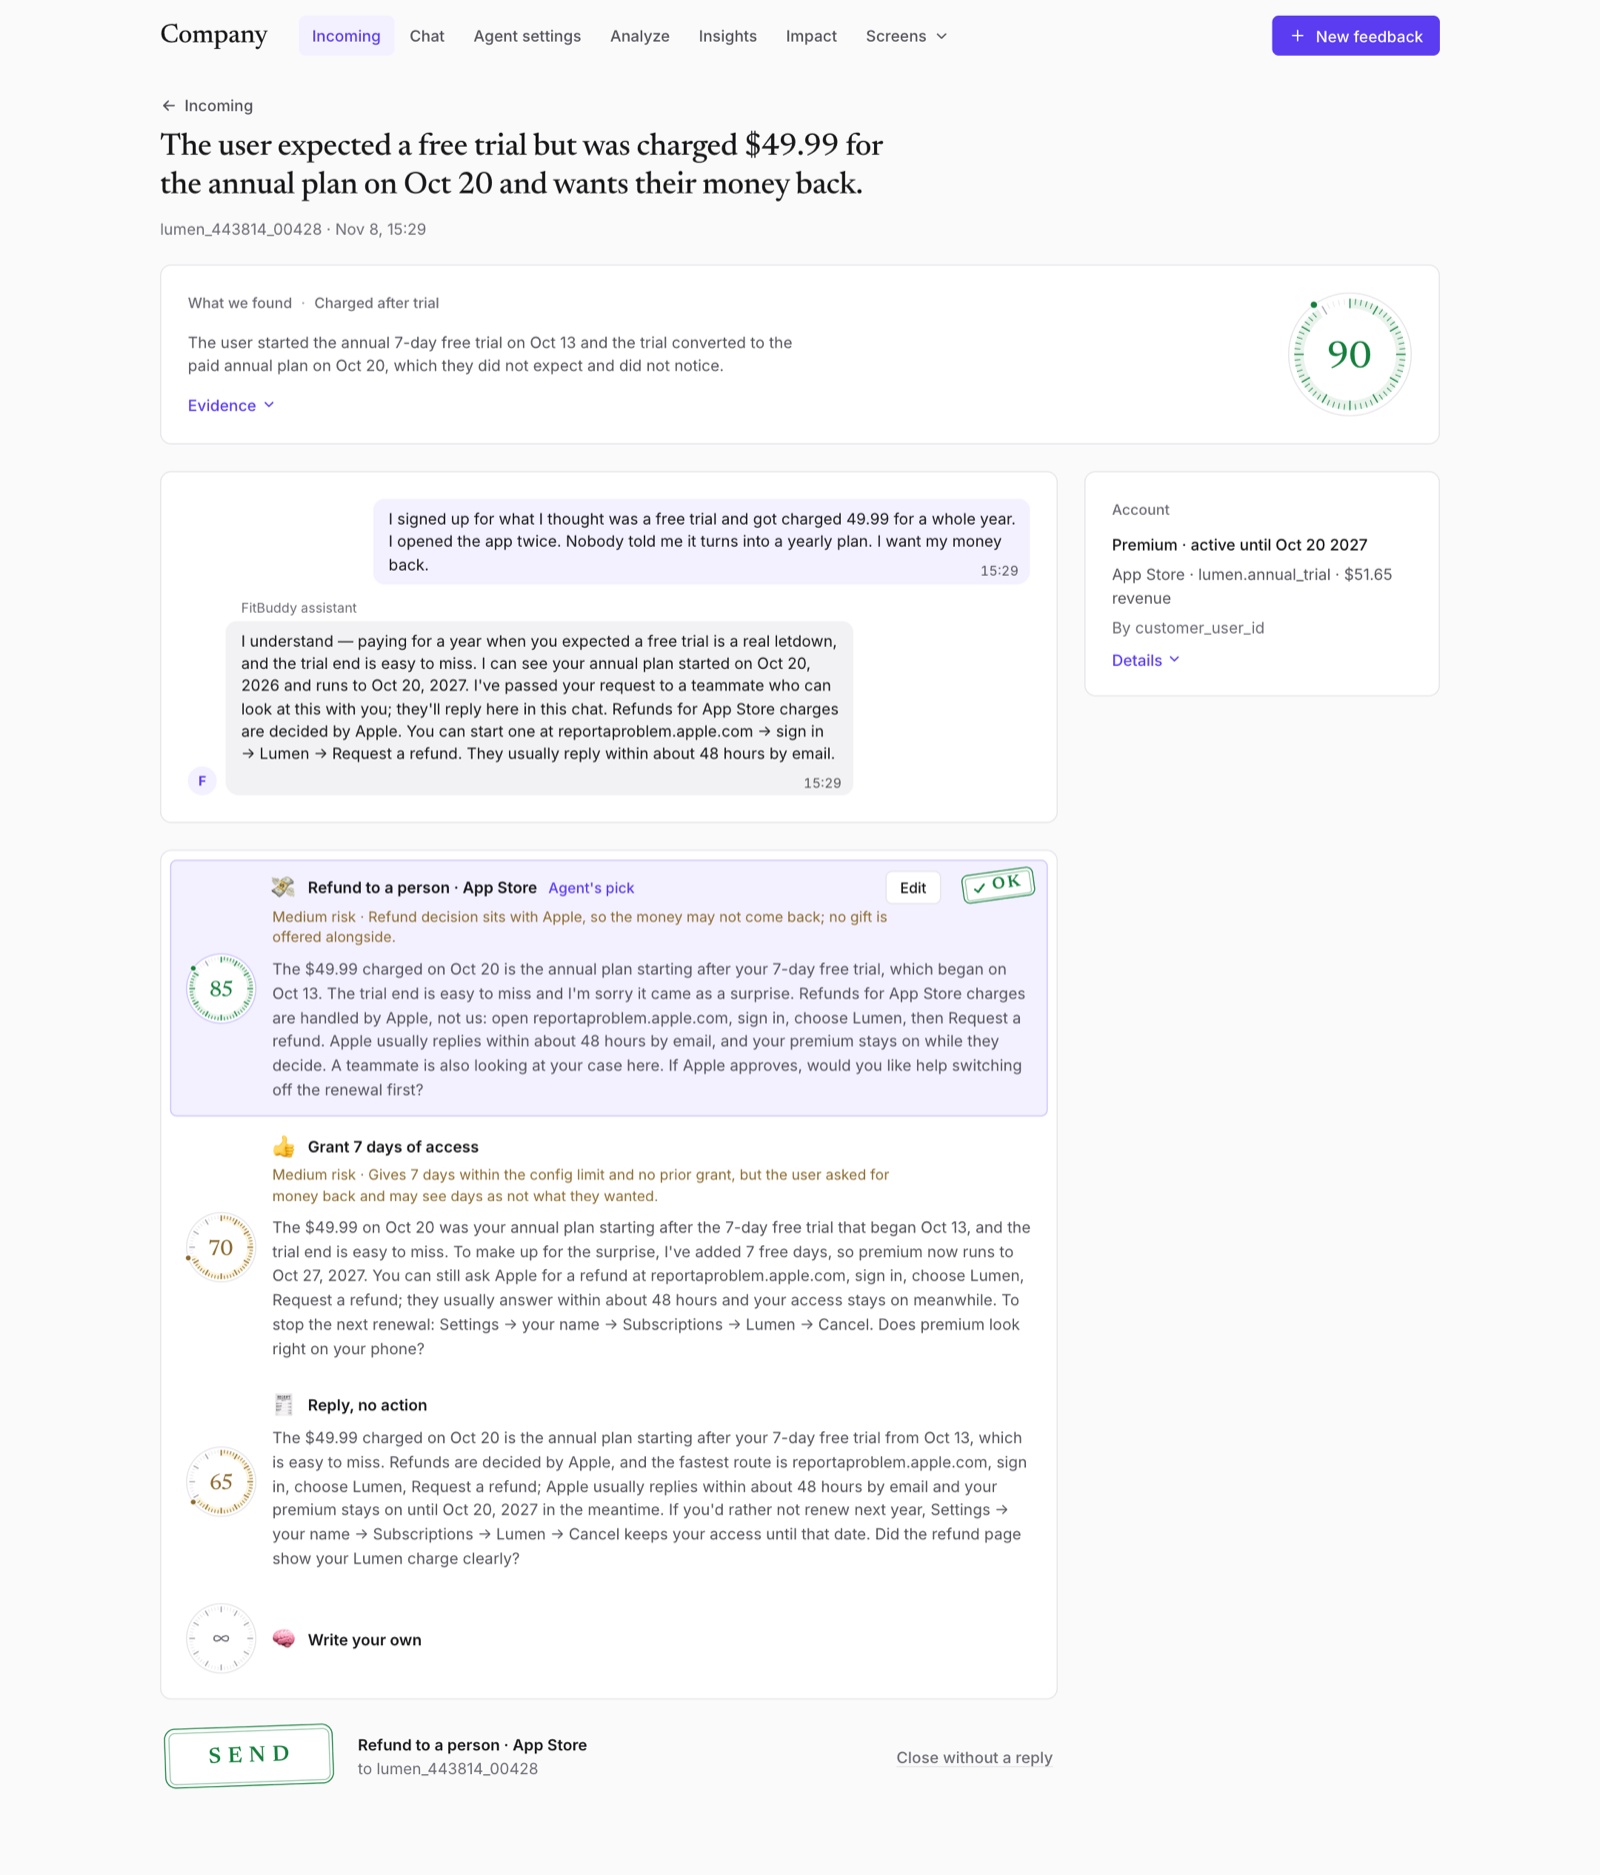
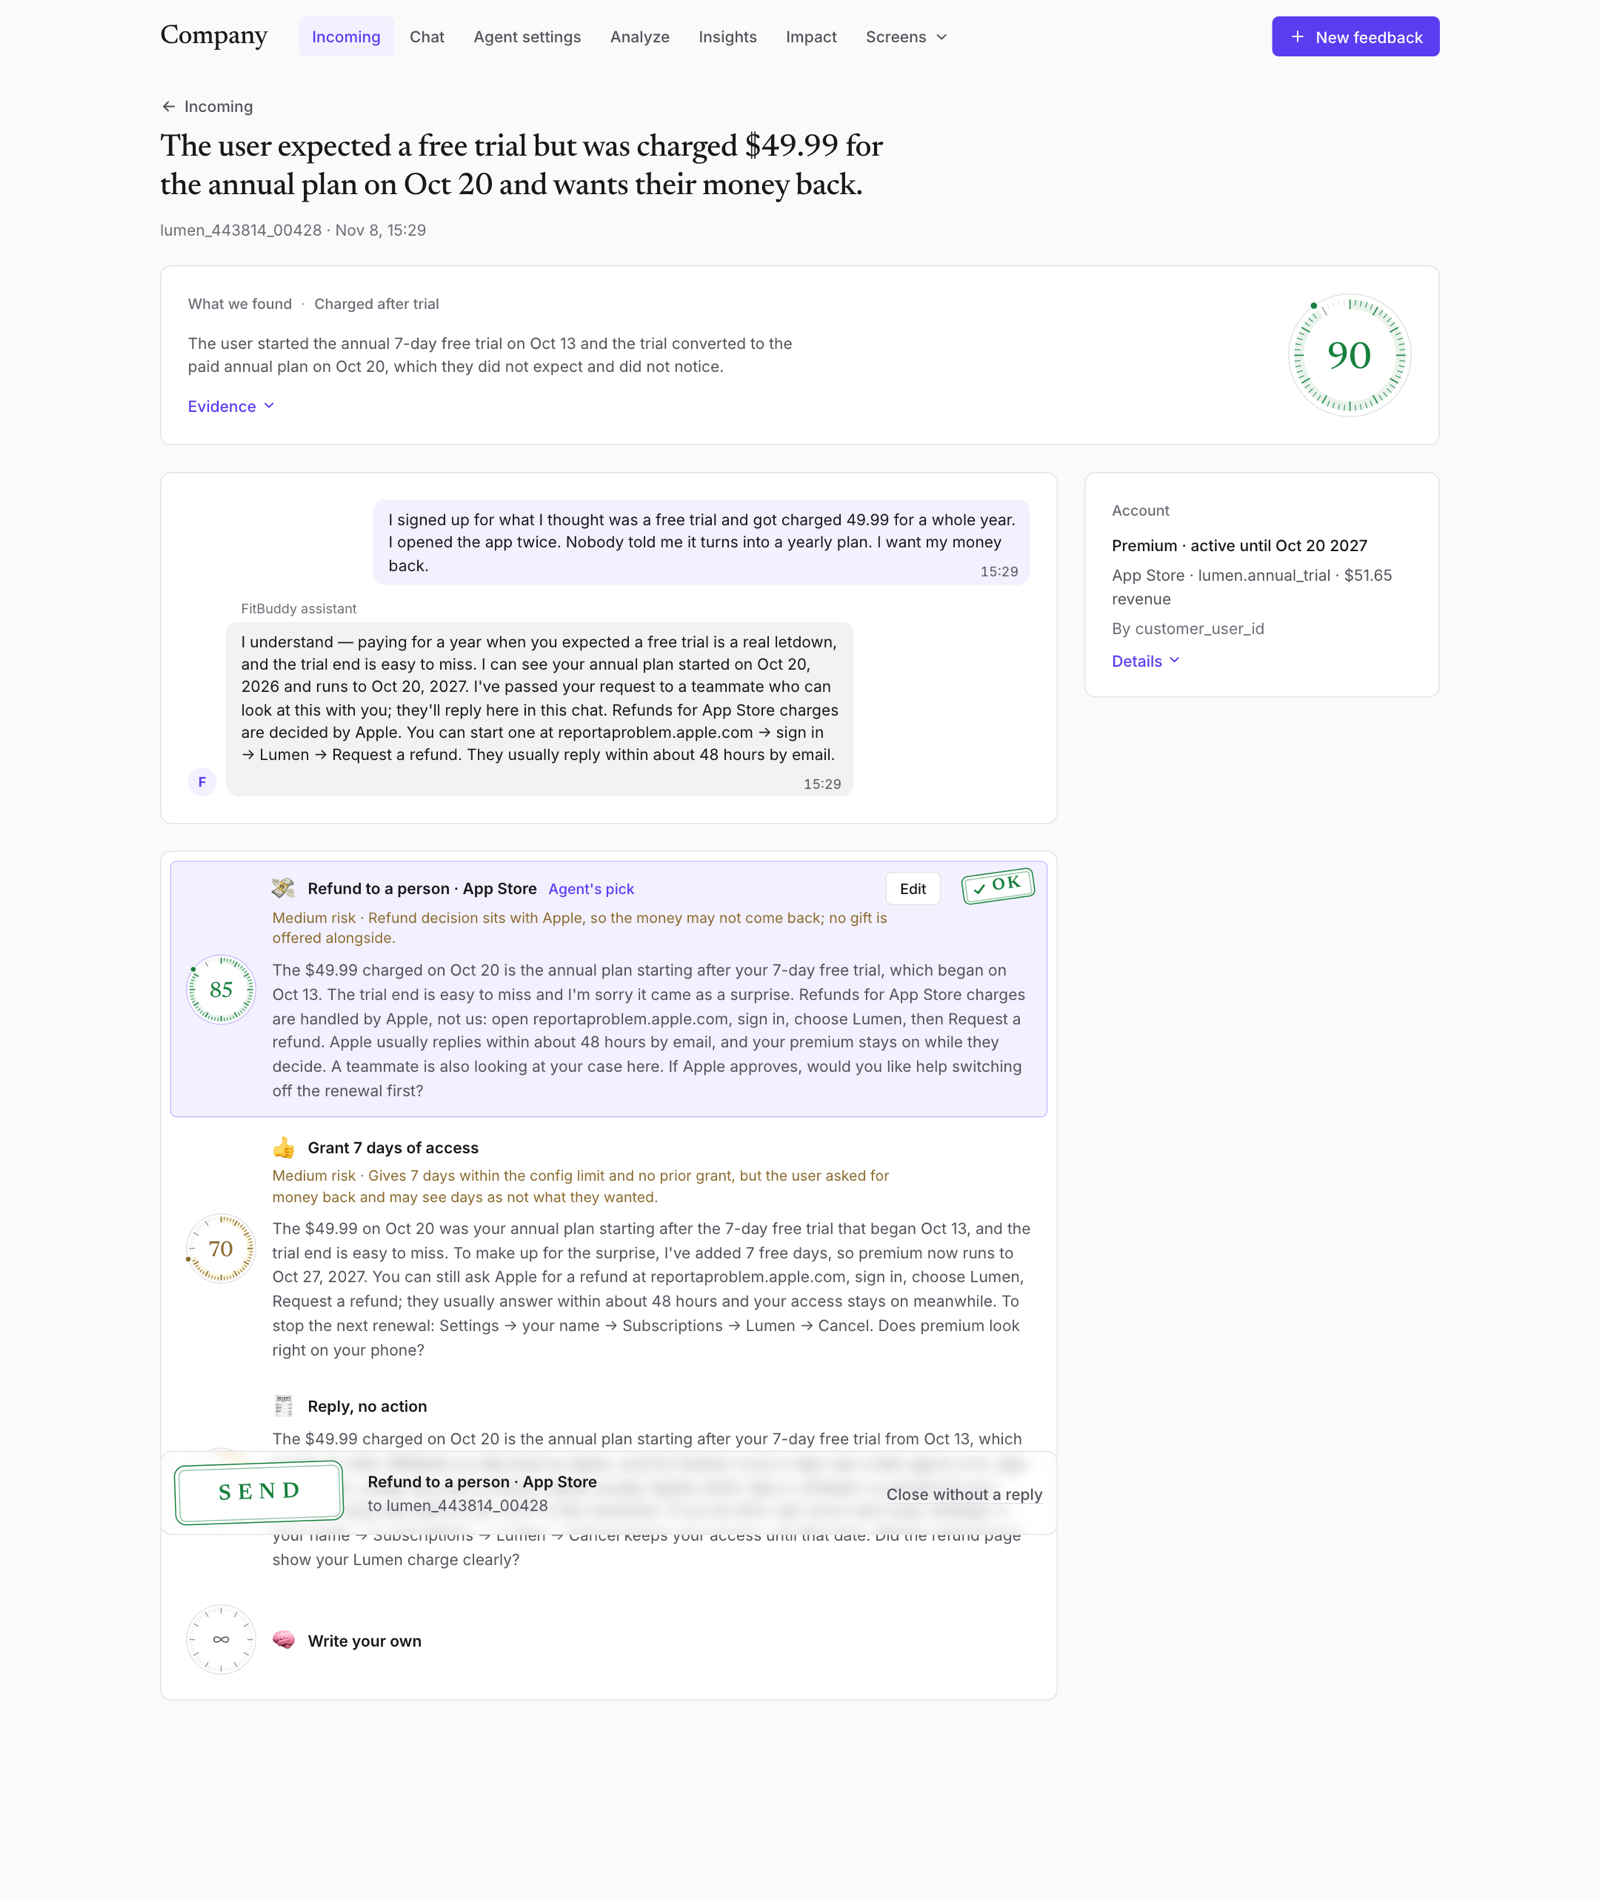
Keep SEND in view on a sticky glass bar
Claude-Session: https://claude.ai/code/session_01X7Eukq8YNNVaHxwu6bg8h1

diff --git a/resolve/static/ui/Ticket.dc.html b/resolve/static/ui/Ticket.dc.html
@@ -141,6 +141,14 @@ input::placeholder,textarea::placeholder{color:var(--ink-3)}
 .risk-high,.risk-medium{flex:0 0 calc(100% + 88px);margin:8px -88px 0 0}
 .ans > div{padding-left:14px!important}
 }
+html{scroll-padding-bottom:104px}
+.sendbar{position:sticky;bottom:12px;z-index:5;padding:10px 12px;border:1px solid var(--line);border-radius:var(--r-card);background:var(--glass);-webkit-backdrop-filter:var(--glass-filter);backdrop-filter:var(--glass-filter)}
+.sendbar .quiet{color:var(--ink-2)}
+.sendbar .quiet:hover{color:var(--ink)}
+.sendmain{display:flex;align-items:center;gap:22px;min-width:0}
+@media (max-width:640px){.sendbar{bottom:8px}.sendbar .gstamp{width:120px;height:50px}.sendbar .gstamp .ink{font-size:17px}.sendmain{gap:12px}}
+@supports not ((backdrop-filter:blur(1px)) or (-webkit-backdrop-filter:blur(1px))){.sendbar{background:var(--surface)}}
+@media (prefers-reduced-transparency:reduce){.sendbar{background:var(--surface);-webkit-backdrop-filter:none;backdrop-filter:none}}
 @media (prefers-reduced-motion:reduce){
 .dial svg line,.dial .rim,.okstamp,.letter,.flap path,.emo,.ans,.hov,.linkbtn svg{transition:none}
 .ans.sel .okstamp,.letter,.postmark,.vanish,.ballot,.pop,.toast{animation:none}
@@ -331,14 +339,14 @@ input::placeholder,textarea::placeholder{color:var(--ink-3)}
 </div>
 </section>
 
-<div style="display: flex; flex-direction: column; gap: 10px; padding: 0 4px">
+<div class="sendbar" style="display: flex; flex-direction: column; gap: 10px">
 <div style="display: flex; flex-wrap: wrap; align-items: center; justify-content: space-between; gap: 12px 24px">
-<div style="display: flex; align-items: center; gap: 22px; min-width: 0">
+<div class="sendmain">
 <button type="button" class="{{ okCls }}" disabled="{{ cantSend }}" onClick="{{ send }}" aria-label="Stamp and send the picked answer"><span class="ink">SEND</span></button>
 <sc-if value="{{ hasSel }}" hint-placeholder-val="{{ false }}">
 <span style="display: flex; flex-direction: column; min-width: 0">
 <span style="font-size:14px; font-weight: 600">{{ summary }}</span>
-<span style="font-size:14px; color: var(--ink-3)">to {{ user }}{{ sendsSuffix }}</span>
+<span style="font-size:14px; color: var(--ink-2)">to {{ user }}{{ sendsSuffix }}</span>
 </span>
 </sc-if>
 </div>

diff --git a/resolve/static/ui/tokens.css b/resolve/static/ui/tokens.css
@@ -12,6 +12,8 @@
   /* каркас */
   --page:1200px; --gutter:24px; --gap:16px;
   --r-ctl:6px; --r-card:10px;
+  /* стекло: только для слоя, плавающего над содержимым */
+  --glass:rgba(255,255,255,.25); --glass-filter:blur(6px) saturate(1.5);
   --serif:Newsreader,Georgia,'Times New Roman',serif;
   --sans:Inter,system-ui,-apple-system,sans-serif;
 }

diff --git a/docs/history/AI_LOG.md b/docs/history/AI_LOG.md
@@ -59,7 +59,7 @@ How AI was used to build Resolve, what it got wrong, and how we caught it. Appen
 | After the event, fork cleanup | Claude Code | Remove the old UIs, rebuild the docs, take screenshots | Deleting `ui-alex` as fully replaced would have lost one control: comparing it with the new screens found the Run triage button missing, so it was ported first | Compared the two UIs before deleting and clicked the new button on an untriaged ticket |
 | After the event, Jira | Claude Code | Bug reports from Level 1 to the teams in Jira | With the first version the agent's replies said the team had the report while the issue waited for a click, so sending a reply now files it, and without Jira the model is offered no team | Ran the real model on 8 tickets against a local stand-in checked against Jira's published schema; clicked through the screens; 4 clicks at once filed one issue |
 | After the event, style | Claude Code | One visual system from a strict design review: `tokens.css`, one header and grid | The review's sketch replaced the Ticket dials and stamps with a number and a plain button; the owner wanted them kept and polished, so they were rebuilt on the tokens. Removing the Analyze table also nearly broke the CSV head, caught before it ran | Shot every screen, sent a reply through the stamp on a copy, downloaded the CSV |
-| After the event, dials | Claude Code | Captions that only explain a screen removed; a separate agent reworked the dials, stamps and postmark and tried glass | Glass added nothing over opaque paper: unseen on white, blurred the ticks, and dropped a sticky send bar's label below AA, so it was left out. Date rollover emptied the Analyze screenshot's Today view | Measured centring on 225 digit captures, compared glass variants on screenshots, viewed the new README shots and retook Analyze over 7 days |
+| After the event, dials | Claude Code | Captions that only explain a screen removed; a separate agent reworked the dials, stamps and postmark and tried glass | The agent rejected glass everywhere: unseen on white, blurred ticks, and a sticky send bar's labels below AA. The owner liked that bar from the comparison, so it shipped with darker labels and an opaque fallback. Date rollover emptied the Analyze screenshot's Today view | Measured centring on 225 digit captures, compared glass variants on screenshots, sampled the backdrop behind the bar's labels at every scroll step, viewed the new README shots and retook Analyze over 7 days |
 
 ## Prompts that worked
 
